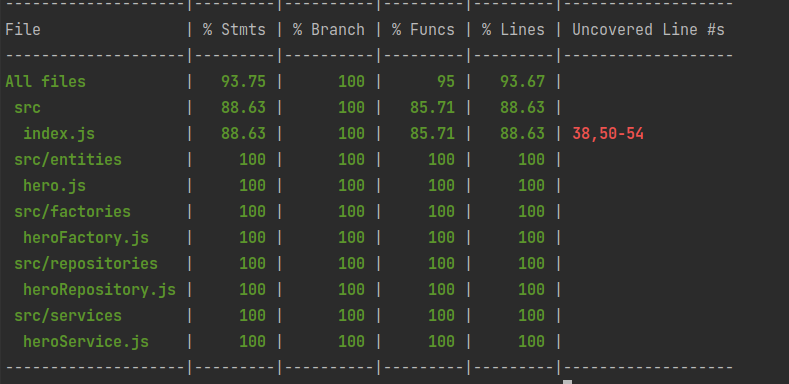
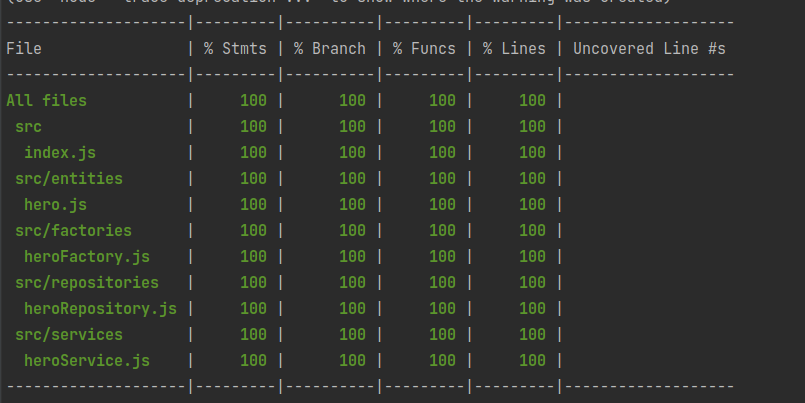
atingindo 100% de cobertura de test

diff --git a/coverage/src/index.js.html b/coverage/src/index.js.html
@@ -23,9 +23,9 @@
         <div class='clearfix'>
             
             <div class='fl pad1y space-right2'>
-                <span class="strong">88.63% </span>
+                <span class="strong">100% </span>
                 <span class="quiet">Statements</span>
-                <span class='fraction'>39/44</span>
+                <span class='fraction'>44/44</span>
             </div>
         
             
@@ -37,16 +37,16 @@
         
             
             <div class='fl pad1y space-right2'>
-                <span class="strong">85.71% </span>
+                <span class="strong">100% </span>
                 <span class="quiet">Functions</span>
-                <span class='fraction'>6/7</span>
+                <span class='fraction'>7/7</span>
             </div>
         
             
             <div class='fl pad1y space-right2'>
-                <span class="strong">88.63% </span>
+                <span class="strong">100% </span>
                 <span class="quiet">Lines</span>
-                <span class='fraction'>39/44</span>
+                <span class='fraction'>44/44</span>
             </div>
         
             
@@ -154,13 +154,13 @@
 <span class="cline-any cline-yes">2x</span>
 <span class="cline-any cline-neutral">&nbsp;</span>
 <span class="cline-any cline-neutral">&nbsp;</span>
+<span class="cline-any cline-yes">3x</span>
+<span class="cline-any cline-yes">3x</span>
+<span class="cline-any cline-neutral">&nbsp;</span>
+<span class="cline-any cline-neutral">&nbsp;</span>
+<span class="cline-any cline-yes">3x</span>
 <span class="cline-any cline-yes">2x</span>
 <span class="cline-any cline-yes">2x</span>
-<span class="cline-any cline-neutral">&nbsp;</span>
-<span class="cline-any cline-neutral">&nbsp;</span>
-<span class="cline-any cline-yes">2x</span>
-<span class="cline-any cline-yes">2x</span>
-<span class="cline-any cline-yes">2x</span>
 <span class="cline-any cline-yes">2x</span>
 <span class="cline-any cline-yes">1x</span>
 <span class="cline-any cline-yes">1x</span>
@@ -175,7 +175,7 @@
 <span class="cline-any cline-yes">1x</span>
 <span class="cline-any cline-neutral">&nbsp;</span>
 <span class="cline-any cline-neutral">&nbsp;</span>
-<span class="cline-any cline-no">&nbsp;</span>
+<span class="cline-any cline-yes">1x</span>
 <span class="cline-any cline-neutral">&nbsp;</span>
 <span class="cline-any cline-neutral">&nbsp;</span>
 <span class="cline-any cline-neutral">&nbsp;</span>
@@ -186,28 +186,28 @@
 <span class="cline-any cline-neutral">&nbsp;</span>
 <span class="cline-any cline-neutral">&nbsp;</span>
 <span class="cline-any cline-yes">1x</span>
-<span class="cline-any cline-yes">5x</span>
-<span class="cline-any cline-no">&nbsp;</span>
-<span class="cline-any cline-no">&nbsp;</span>
-<span class="cline-any cline-no">&nbsp;</span>
+<span class="cline-any cline-yes">7x</span>
+<span class="cline-any cline-yes">1x</span>
+<span class="cline-any cline-yes">1x</span>
+<span class="cline-any cline-yes">1x</span>
 <span class="cline-any cline-neutral">&nbsp;</span>
-<span class="cline-any cline-no">&nbsp;</span>
+<span class="cline-any cline-yes">1x</span>
 <span class="cline-any cline-neutral">&nbsp;</span>
 <span class="cline-any cline-neutral">&nbsp;</span>
 <span class="cline-any cline-neutral">&nbsp;</span>
 <span class="cline-any cline-yes">1x</span>
-<span class="cline-any cline-yes">5x</span>
-<span class="cline-any cline-yes">5x</span>
+<span class="cline-any cline-yes">6x</span>
+<span class="cline-any cline-yes">6x</span>
 <span class="cline-any cline-neutral">&nbsp;</span>
-<span class="cline-any cline-yes">5x</span>
+<span class="cline-any cline-yes">6x</span>
 <span class="cline-any cline-neutral">&nbsp;</span>
-<span class="cline-any cline-yes">5x</span>
+<span class="cline-any cline-yes">6x</span>
 <span class="cline-any cline-neutral">&nbsp;</span>
-<span class="cline-any cline-yes">5x</span>
+<span class="cline-any cline-yes">6x</span>
 <span class="cline-any cline-neutral">&nbsp;</span>
-<span class="cline-any cline-yes">5x</span>
+<span class="cline-any cline-yes">6x</span>
 <span class="cline-any cline-neutral">&nbsp;</span>
-<span class="cline-any cline-yes">5x</span>
+<span class="cline-any cline-yes">6x</span>
 <span class="cline-any cline-neutral">&nbsp;</span>
 <span class="cline-any cline-neutral">&nbsp;</span>
 <span class="cline-any cline-yes">1x</span>
@@ -250,7 +250,7 @@ const routes = {
                 return response.end();
 &nbsp;
             } catch (err) {
-<span class="cstat-no" title="statement not covered" >                return handleError(response)(err);</span>
+                return handleError(response)(err);
             }
         }
     },
@@ -261,12 +261,12 @@ const routes = {
 }
 &nbsp;
 const handleError = (response) =&gt; {
-    return <span class="fstat-no" title="function not covered" >er</span>ror =&gt; {
-<span class="cstat-no" title="statement not covered" >        console.error('Internal Error***', error)</span>
-<span class="cstat-no" title="statement not covered" >        response.writeHead(500, DEFAULT_HEADER);</span>
-<span class="cstat-no" title="statement not covered" >        response.write(JSON.stringify({ error: 'Internal Server Error!!!' }));</span>
+    return error =&gt; {
+        console.error('Internal Error***', error)
+        response.writeHead(500, DEFAULT_HEADER);
+        response.write(JSON.stringify({ error: 'Internal Server Error!!!' }));
 &nbsp;
-<span class="cstat-no" title="statement not covered" >        response.end();</span>
+        response.end();
     };
 }
 &nbsp;
@@ -295,7 +295,7 @@ module.exports = app;</pre></td></tr></table></pre>
             <div class='footer quiet pad2 space-top1 center small'>
                 Code coverage generated by
                 <a href="https://istanbul.js.org/" target="_blank" rel="noopener noreferrer">istanbul</a>
-                at 2023-03-10T21:02:27.292Z
+                at 2023-03-13T19:33:44.293Z
             </div>
         <script src="../prettify.js"></script>
         <script>

diff --git a/coverage/src/index.html b/coverage/src/index.html
@@ -23,9 +23,9 @@
         <div class='clearfix'>
             
             <div class='fl pad1y space-right2'>
-                <span class="strong">88.63% </span>
+                <span class="strong">100% </span>
                 <span class="quiet">Statements</span>
-                <span class='fraction'>39/44</span>
+                <span class='fraction'>44/44</span>
             </div>
         
             
@@ -37,16 +37,16 @@
         
             
             <div class='fl pad1y space-right2'>
-                <span class="strong">85.71% </span>
+                <span class="strong">100% </span>
                 <span class="quiet">Functions</span>
-                <span class='fraction'>6/7</span>
+                <span class='fraction'>7/7</span>
             </div>
         
             
             <div class='fl pad1y space-right2'>
-                <span class="strong">88.63% </span>
+                <span class="strong">100% </span>
                 <span class="quiet">Lines</span>
-                <span class='fraction'>39/44</span>
+                <span class='fraction'>44/44</span>
             </div>
         
             
@@ -80,17 +80,17 @@
 </thead>
 <tbody><tr>
 	<td class="file high" data-value="index.js"><a href="index.js.html">index.js</a></td>
-	<td data-value="88.63" class="pic high">
-	<div class="chart"><div class="cover-fill" style="width: 88%"></div><div class="cover-empty" style="width: 12%"></div></div>
+	<td data-value="100" class="pic high">
+	<div class="chart"><div class="cover-fill cover-full" style="width: 100%"></div><div class="cover-empty" style="width: 0%"></div></div>
 	</td>
-	<td data-value="88.63" class="pct high">88.63%</td>
-	<td data-value="44" class="abs high">39/44</td>
+	<td data-value="100" class="pct high">100%</td>
+	<td data-value="44" class="abs high">44/44</td>
 	<td data-value="100" class="pct high">100%</td>
 	<td data-value="6" class="abs high">6/6</td>
-	<td data-value="85.71" class="pct high">85.71%</td>
-	<td data-value="7" class="abs high">6/7</td>
-	<td data-value="88.63" class="pct high">88.63%</td>
-	<td data-value="44" class="abs high">39/44</td>
+	<td data-value="100" class="pct high">100%</td>
+	<td data-value="7" class="abs high">7/7</td>
+	<td data-value="100" class="pct high">100%</td>
+	<td data-value="44" class="abs high">44/44</td>
 	</tr>
 
 </tbody>
@@ -101,7 +101,7 @@
             <div class='footer quiet pad2 space-top1 center small'>
                 Code coverage generated by
                 <a href="https://istanbul.js.org/" target="_blank" rel="noopener noreferrer">istanbul</a>
-                at 2023-03-10T21:02:27.292Z
+                at 2023-03-13T19:33:44.293Z
             </div>
         <script src="../prettify.js"></script>
         <script>

diff --git a/coverage/index.html b/coverage/index.html
@@ -23,9 +23,9 @@
         <div class='clearfix'>
             
             <div class='fl pad1y space-right2'>
-                <span class="strong">93.75% </span>
+                <span class="strong">100% </span>
                 <span class="quiet">Statements</span>
-                <span class='fraction'>75/80</span>
+                <span class='fraction'>80/80</span>
             </div>
         
             
@@ -37,16 +37,16 @@
         
             
             <div class='fl pad1y space-right2'>
-                <span class="strong">95% </span>
+                <span class="strong">100% </span>
                 <span class="quiet">Functions</span>
-                <span class='fraction'>19/20</span>
+                <span class='fraction'>20/20</span>
             </div>
         
             
             <div class='fl pad1y space-right2'>
-                <span class="strong">93.67% </span>
+                <span class="strong">100% </span>
                 <span class="quiet">Lines</span>
-                <span class='fraction'>74/79</span>
+                <span class='fraction'>79/79</span>
             </div>
         
             
@@ -80,17 +80,17 @@
 </thead>
 <tbody><tr>
 	<td class="file high" data-value="src"><a href="src/index.html">src</a></td>
-	<td data-value="88.63" class="pic high">
-	<div class="chart"><div class="cover-fill" style="width: 88%"></div><div class="cover-empty" style="width: 12%"></div></div>
+	<td data-value="100" class="pic high">
+	<div class="chart"><div class="cover-fill cover-full" style="width: 100%"></div><div class="cover-empty" style="width: 0%"></div></div>
 	</td>
-	<td data-value="88.63" class="pct high">88.63%</td>
-	<td data-value="44" class="abs high">39/44</td>
+	<td data-value="100" class="pct high">100%</td>
+	<td data-value="44" class="abs high">44/44</td>
 	<td data-value="100" class="pct high">100%</td>
 	<td data-value="6" class="abs high">6/6</td>
-	<td data-value="85.71" class="pct high">85.71%</td>
-	<td data-value="7" class="abs high">6/7</td>
-	<td data-value="88.63" class="pct high">88.63%</td>
-	<td data-value="44" class="abs high">39/44</td>
+	<td data-value="100" class="pct high">100%</td>
+	<td data-value="7" class="abs high">7/7</td>
+	<td data-value="100" class="pct high">100%</td>
+	<td data-value="44" class="abs high">44/44</td>
 	</tr>
 
 <tr>
@@ -161,7 +161,7 @@
             <div class='footer quiet pad2 space-top1 center small'>
                 Code coverage generated by
                 <a href="https://istanbul.js.org/" target="_blank" rel="noopener noreferrer">istanbul</a>
-                at 2023-03-10T21:02:27.292Z
+                at 2023-03-13T19:33:44.293Z
             </div>
         <script src="prettify.js"></script>
         <script>

diff --git a/src/api.test.js b/src/api.test.js
@@ -81,6 +81,21 @@ describe('API Suite test', () => {
             assert.deepStrictEqual(JSON.parse(response.error.text), expect);
         });
 
+        it('should request the create heroes JSON error', async () => {
+
+            const response = await request(app)
+                .post('/heroes')
+                .send("{a")
+                .expect(500);
+
+
+            const expect = {
+                "error":"Internal Server Error!!!"
+            };
+
+            assert.deepStrictEqual(JSON.parse(response.error.text), expect);
+        });
+
 
     });
 });

diff --git a/coverage/src/factories/heroFactory.js.html b/coverage/src/factories/heroFactory.js.html
@@ -127,7 +127,7 @@ module.exports = { generateInstance };
             <div class='footer quiet pad2 space-top1 center small'>
                 Code coverage generated by
                 <a href="https://istanbul.js.org/" target="_blank" rel="noopener noreferrer">istanbul</a>
-                at 2023-03-10T21:02:27.292Z
+                at 2023-03-13T19:33:44.293Z
             </div>
         <script src="../../prettify.js"></script>
         <script>

diff --git a/coverage/src/repositories/heroRepository.js.html b/coverage/src/repositories/heroRepository.js.html
@@ -163,7 +163,7 @@ module.exports = HeroRepository;
             <div class='footer quiet pad2 space-top1 center small'>
                 Code coverage generated by
                 <a href="https://istanbul.js.org/" target="_blank" rel="noopener noreferrer">istanbul</a>
-                at 2023-03-10T21:02:27.292Z
+                at 2023-03-13T19:33:44.293Z
             </div>
         <script src="../../prettify.js"></script>
         <script>

diff --git a/coverage/src/services/heroService.js.html b/coverage/src/services/heroService.js.html
@@ -115,7 +115,7 @@ module.exports = HeroService;
             <div class='footer quiet pad2 space-top1 center small'>
                 Code coverage generated by
                 <a href="https://istanbul.js.org/" target="_blank" rel="noopener noreferrer">istanbul</a>
-                at 2023-03-10T21:02:27.292Z
+                at 2023-03-13T19:33:44.293Z
             </div>
         <script src="../../prettify.js"></script>
         <script>

diff --git a/coverage/src/entities/hero.js.html b/coverage/src/entities/hero.js.html
@@ -139,7 +139,7 @@ module.exports = Hero;
             <div class='footer quiet pad2 space-top1 center small'>
                 Code coverage generated by
                 <a href="https://istanbul.js.org/" target="_blank" rel="noopener noreferrer">istanbul</a>
-                at 2023-03-10T21:02:27.292Z
+                at 2023-03-13T19:33:44.293Z
             </div>
         <script src="../../prettify.js"></script>
         <script>

diff --git a/coverage/src/entities/index.html b/coverage/src/entities/index.html
@@ -101,7 +101,7 @@
             <div class='footer quiet pad2 space-top1 center small'>
                 Code coverage generated by
                 <a href="https://istanbul.js.org/" target="_blank" rel="noopener noreferrer">istanbul</a>
-                at 2023-03-10T21:02:27.292Z
+                at 2023-03-13T19:33:44.293Z
             </div>
         <script src="../../prettify.js"></script>
         <script>

diff --git a/coverage/src/factories/index.html b/coverage/src/factories/index.html
@@ -101,7 +101,7 @@
             <div class='footer quiet pad2 space-top1 center small'>
                 Code coverage generated by
                 <a href="https://istanbul.js.org/" target="_blank" rel="noopener noreferrer">istanbul</a>
-                at 2023-03-10T21:02:27.292Z
+                at 2023-03-13T19:33:44.293Z
             </div>
         <script src="../../prettify.js"></script>
         <script>

diff --git a/coverage/src/repositories/index.html b/coverage/src/repositories/index.html
@@ -101,7 +101,7 @@
             <div class='footer quiet pad2 space-top1 center small'>
                 Code coverage generated by
                 <a href="https://istanbul.js.org/" target="_blank" rel="noopener noreferrer">istanbul</a>
-                at 2023-03-10T21:02:27.292Z
+                at 2023-03-13T19:33:44.293Z
             </div>
         <script src="../../prettify.js"></script>
         <script>

diff --git a/coverage/src/services/index.html b/coverage/src/services/index.html
@@ -101,7 +101,7 @@
             <div class='footer quiet pad2 space-top1 center small'>
                 Code coverage generated by
                 <a href="https://istanbul.js.org/" target="_blank" rel="noopener noreferrer">istanbul</a>
-                at 2023-03-10T21:02:27.292Z
+                at 2023-03-13T19:33:44.293Z
             </div>
         <script src="../../prettify.js"></script>
         <script>
